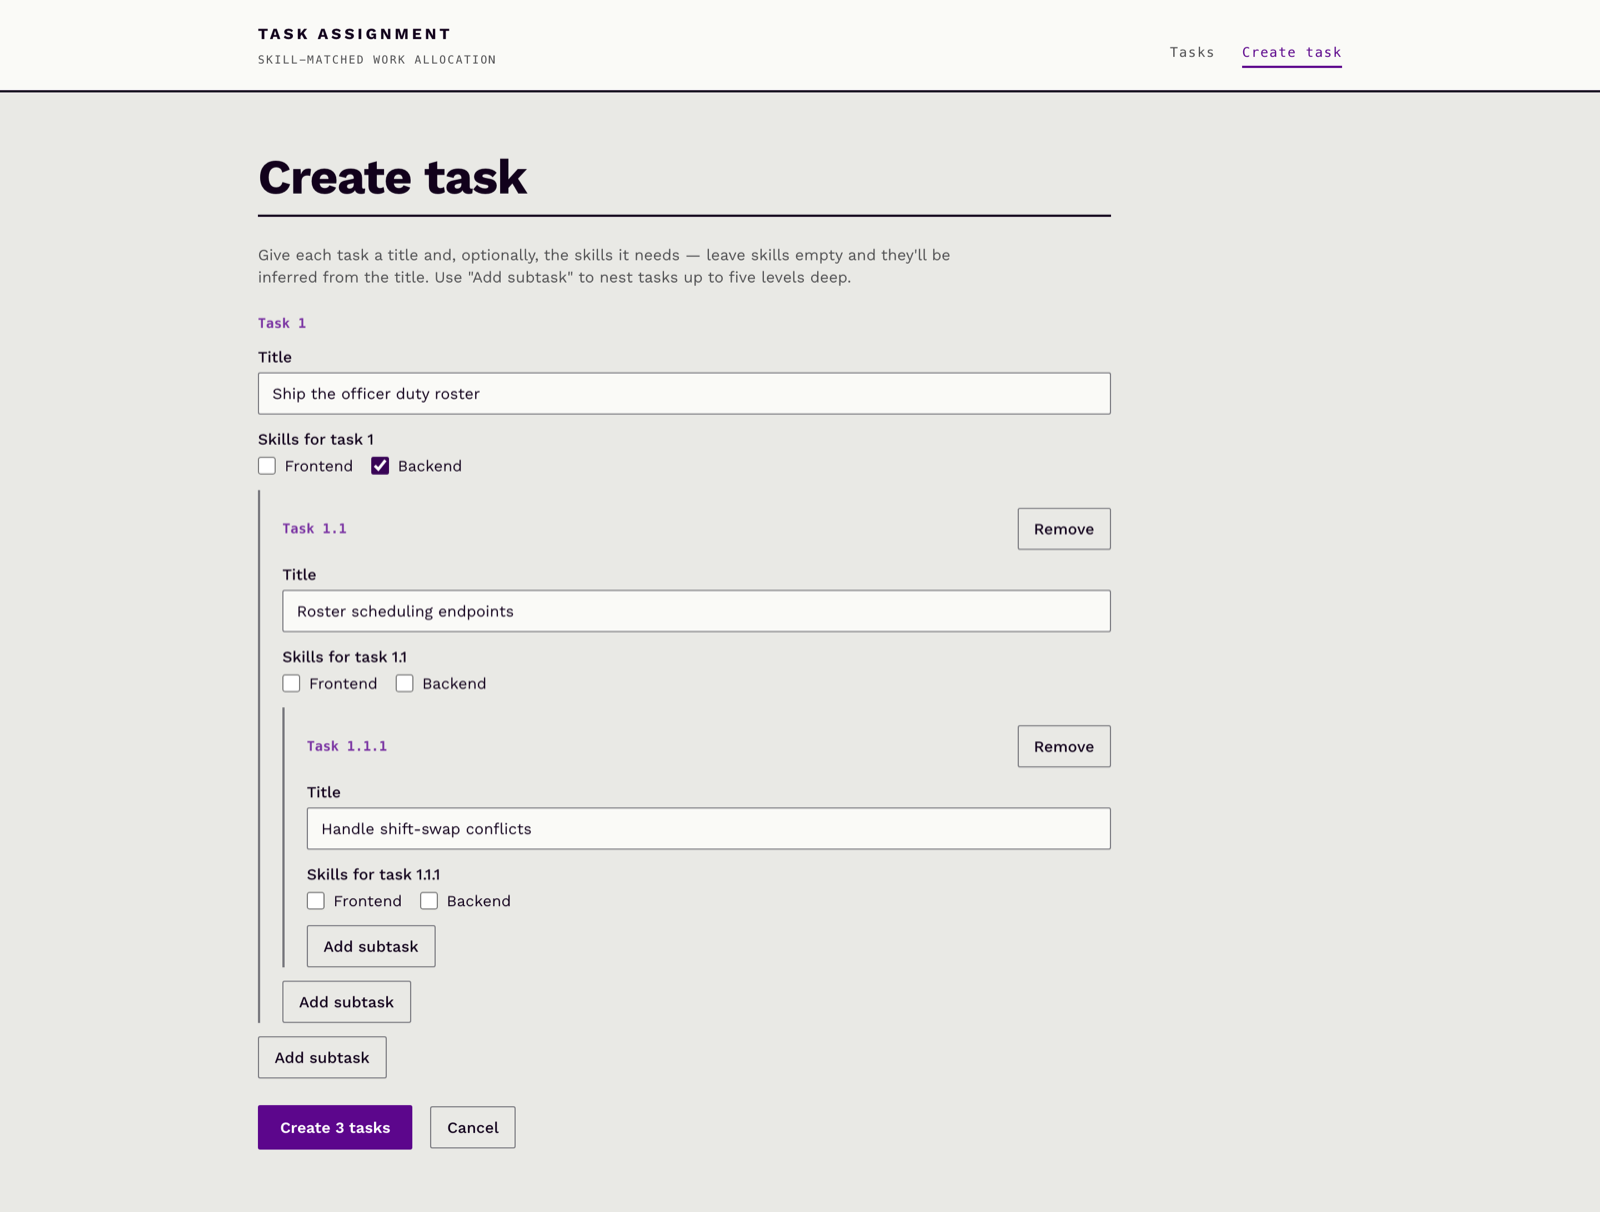
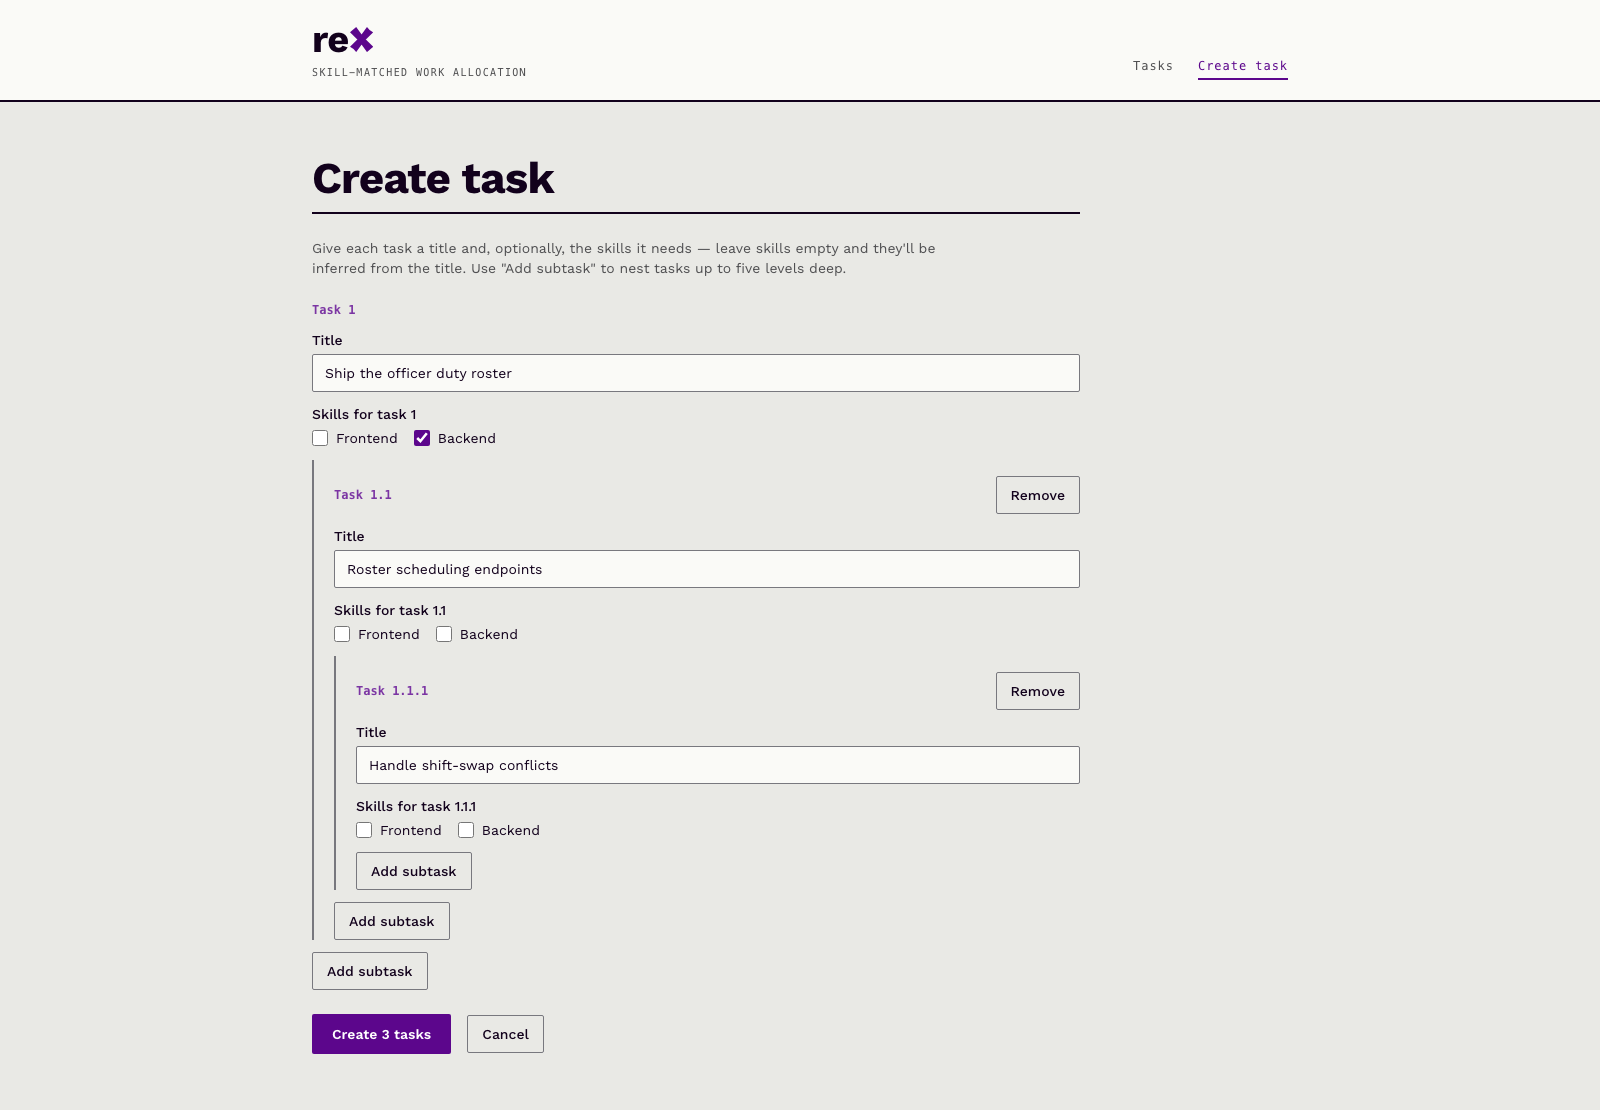
docs: correct the e2e count and reshoot the Create Task screenshot
The e2e subsection still said 10 while the total, the command example
and the suite itself said 13 — the outline tests (folding, draft
recovery, adding in place) and the skill-list recovery test had been
added without it. It now says 13 and lists what they cover.

docs/images/create-task.png predated the reX wordmark, so the README
showed two different applications. Reshot from the reviewed release with
the same composition — 1 → 1.1 → 1.1.1, Backend on task 1 — so only the
masthead differs.

diff --git a/README.md b/README.md
@@ -404,11 +404,14 @@ npm run test:e2e                  # 13 Playwright tests against the real Docker 
   focus to the parent, "Create N tasks" / "Creating…" labels with the inference hint, pluralised flash, skills-failed
   banner; and the list's own reporting — the census line sits beside the heading without renaming it, a parent with
   unfinished subtasks says so while leaving Done selectable, and the empty state offers a distinctly named action.
-- **e2e (10, `e2e/`)** — Playwright drives Chromium against `docker compose up --build`, i.e. nginx → API → Postgres
+- **e2e (13, `e2e/`)** — Playwright drives Chromium against `docker compose up --build`, i.e. nginx → API → Postgres
   exactly as a reviewer runs it: smoke (health, `/docs`, seed data), create a task from the UI, Rule A in the assignee
   dropdown (Bob disabled for a Frontend task, Carol accepted), the empty-title alert on the create form, a three-level
   tree created from the nested form with 1 / 1.1 / 1.1.1 numbering, both Rule B rejections and the bottom-up completion
-  path, the depth-5 form cap, and skill
+  path, the depth-5 form cap, the Task List outline — fold a subtree away and bring it back, get interrupted mid-draft
+  and find the half-written subtask still there (caret included), add a subtask in place and reload to prove it reached
+  the server — the same composer refusing a Done parent and saying so before you try, its recovery when `GET
+  /api/skills` fails and then a Retry succeeds without retyping anything, and skill
   inference — asserted strictly against the live LLM when `GEMINI_API_KEY` is set in `.env`, and against the
   `unresolved` path when it is not. `E2E_BASE_URL=http://localhost:8080 npm run test:e2e` reuses a stack that is
   already running; `npm run test:e2e:ui` opens Playwright's inspector. This layer earned its place on the first run:
